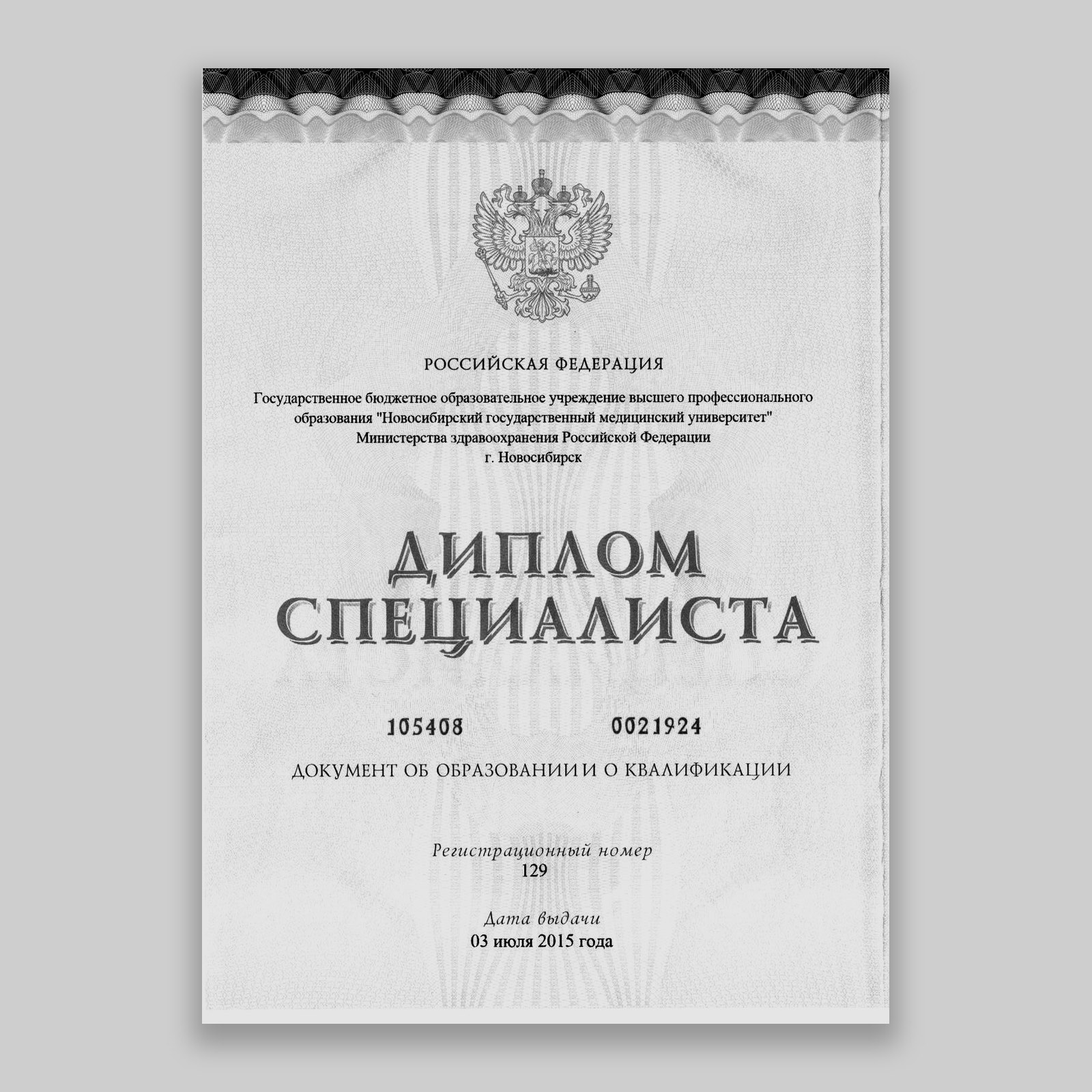
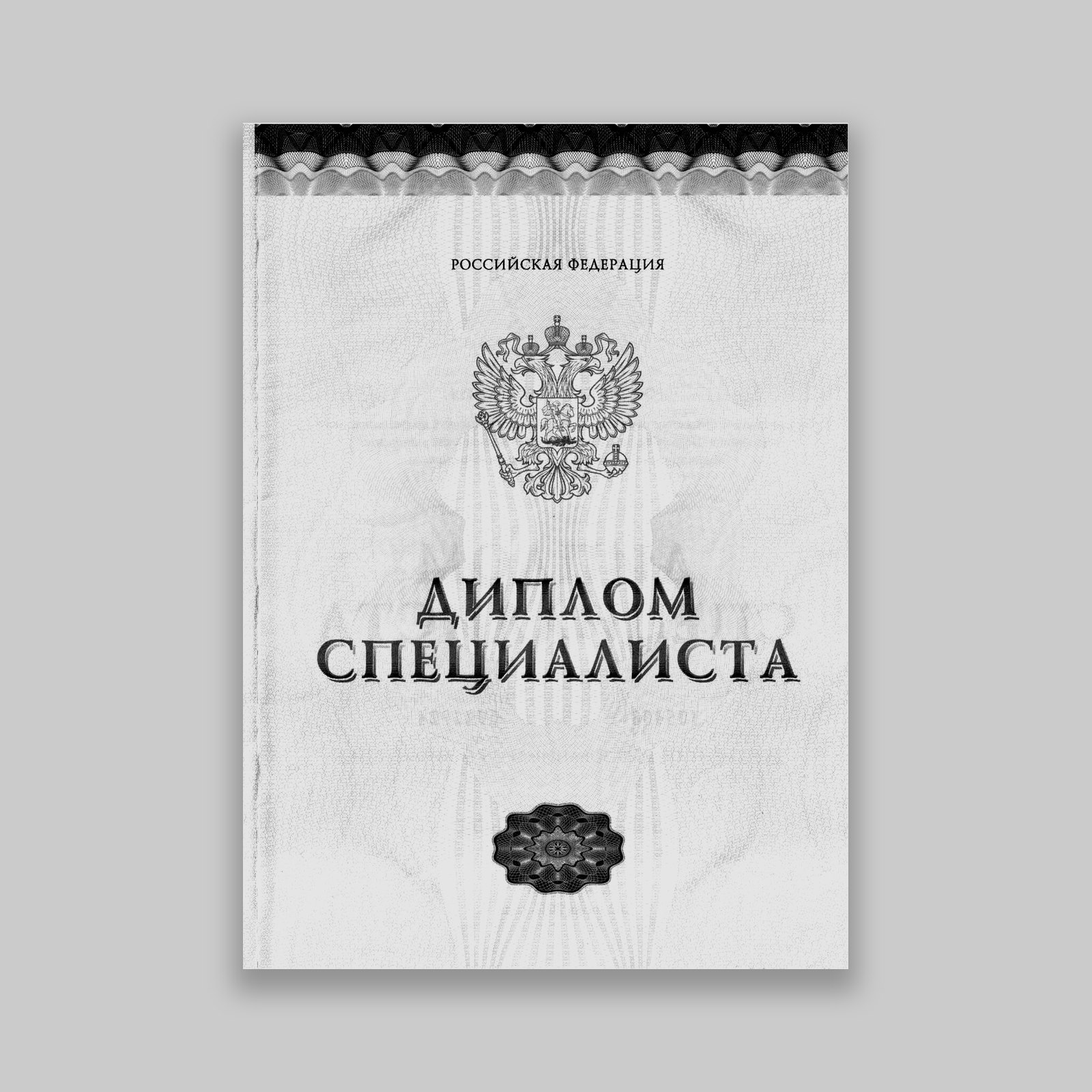
Документы об образовании, карта под текстом, версия без игр
В разделе документов новый блок: шесть документов врача от диплома
2015 года до повышения квалификации 2025-го. Миниатюра раскрывается
в полный скан нажатием, на теге details — без скрипта, поэтому
работает и с клавиатуры. Рядом сказано, что документы 2015 и 2016
годов выданы на прежнюю фамилию.

Карта на контактах встала под адресом и телефоном, а не сбоку:
сведения читаются сверху вниз, карта оказывается в конце.

В версии для слабовидящих убраны игры — камень, пломба и лоток
инструментов. Мелкие цели и перетаскивание там ни к чему; текст и
цены блоков остались на месте.

На плитке о дипломе теперь обложка бланка без имени, номеров и
подписей, подпись под ней без названия вуза.

Claude-Session: https://claude.ai/code/session_01Ui7H6U1Pji7C9dD6chSZKK

Changed region(s): [[0.1562, 0.0625, 0.8438, 0.9688], [0.3125, 0.2188, 0.3438, 0.25]]

diff --git a/faq.html b/faq.html
@@ -23,7 +23,7 @@
 <link rel="manifest" href="site.webmanifest">
 <link rel="preload" href="assets/font/golos-text-cyrillic-400-normal.woff2" as="font" type="font/woff2" crossorigin>
 <link rel="preload" href="assets/font/prata-cyrillic-400-normal.woff2" as="font" type="font/woff2" crossorigin>
-<link rel="stylesheet" href="styles.css?v=b74cc926">
+<link rel="stylesheet" href="styles.css?v=006682e9">
 <script type="application/ld+json">{"@context": "https://schema.org", "@type": "FAQPage", "mainEntity": [{"@type": "Question", "name": "Как проходит первый визит?", "acceptedAnswer": {"@type": "Answer", "text": "Первичный приём длится около часа. Мы разговариваем о том, что беспокоит и чего вы ждёте, осматриваем полость рта, делаем фотопротокол и, если нужно, даём направление на снимок. В конце вы получаете письменный план лечения с этапами и стоимостью. Никаких процедур «заодно» в первый визит не делается — только по вашему решению."}}, {"@type": "Question", "name": "Почему консультация платная?", "acceptedAnswer": {"@type": "Answer", "text": "Потому что это час работы врача, а не десять минут осмотра «на бегу». За это время вы получаете документ — план и смету, — с которым можно пойти и в другую клинику. Если вы начинаете лечение у нас в течение 30 дней, стоимость консультации вычитается из его цены."}}, {"@type": "Question", "name": "Нужно ли брать с собой снимки и выписки?", "acceptedAnswer": {"@type": "Answer", "text": "Да, если они есть: панорамный снимок, КЛКТ, план из другой клиники, список принимаемых лекарств. Это экономит время и деньги — повторять свежие снимки не придётся."}}, {"@type": "Question", "name": "Можно ли прийти с острой болью без записи?", "acceptedAnswer": {"@type": "Answer", "text": "Позвоните — если в расписании есть окно, примем в тот же день. Острая боль всегда в приоритете: сначала снимаем её, потом планируем остальное."}}, {"@type": "Question", "name": "Есть ли рассрочка?", "acceptedAnswer": {"@type": "Answer", "text": "Да, для планового лечения. Условия зависят от объёма плана, поэтому обсуждаем их на приёме, когда план уже составлен."}}, {"@type": "Question", "name": "Можно ли получить налоговый вычет за лечение?", "acceptedAnswer": {"@type": "Answer", "text": "Да. Мы выдаём договор, копию лицензии и справку об оплате медицинских услуг по установленной форме — этого достаточно для вычета 13 %."}}, {"@type": "Question", "name": "Как часто нужна профессиональная чистка?", "acceptedAnswer": {"@type": "Answer", "text": "Большинству взрослых — раз в шесть месяцев. При заболеваниях дёсен, брекетах, имплантатах или курении — раз в три‑четыре месяца. Интервал врач назначает индивидуально после осмотра."}}, {"@type": "Question", "name": "Чем профессиональная чистка отличается от домашней?", "acceptedAnswer": {"@type": "Answer", "text": "Дома щётка убирает мягкий налёт. Зубной камень и налёт под десной и между зубами щётке недоступны — их снимают ультразвуком и порошком Air Flow. Чистка не «стачивает» эмаль: ультразвук работает по камню, а порошок — по налёту."}}, {"@type": "Question", "name": "Что нельзя делать после чистки?", "acceptedAnswer": {"@type": "Answer", "text": "Два‑три часа не есть и не пить ничего, кроме воды. Сутки — без красящих продуктов: кофе, чай, красное вино, свёкла, соевый соус, ягоды. Сутки — без курения. Эмаль после чистки более восприимчива к пигментам."}}, {"@type": "Question", "name": "Безопасно ли отбеливание?", "acceptedAnswer": {"@type": "Answer", "text": "Кабинетное и домашнее отбеливание по назначению врача — безопасная процедура для здоровой эмали. Небезопасно отбеливать зубы с кариесом, оголёнными шейками или на фоне воспаления дёсен — поэтому сначала осмотр и гигиена, потом отбеливание."}}, {"@type": "Question", "name": "Повышается ли чувствительность после отбеливания?", "acceptedAnswer": {"@type": "Answer", "text": "У части пациентов на один‑три дня — да. Это проходит. Снимается реминерализующими гелями и пастами для чувствительных зубов, которые мы даём с собой."}}, {"@type": "Question", "name": "Что такое «белая диета» и сколько её соблюдать?", "acceptedAnswer": {"@type": "Answer", "text": "Первые 48 часов после отбеливания — только светлые продукты и напитки: вода, молочное, курица, рис, белая рыба, светлые фрукты. В это время эмаль наиболее восприимчива к красителям."}}, {"@type": "Question", "name": "Можно ли отбелить зубы домашними средствами — содой, углём, перекисью?", "acceptedAnswer": {"@type": "Answer", "text": "Не советуем. Сода и уголь — абразивы, они царапают эмаль и делают зубы более матовыми и чувствительными. Аптечная перекись без контроля обжигает десну. Домашнее отбеливание существует, но в каппах и с гелем, который подбирает врач."}}, {"@type": "Question", "name": "Нужна ли зубная нить, если есть щётка?", "acceptedAnswer": {"@type": "Answer", "text": "Нужна. Щётка не проходит между зубами, а кариес чаще всего начинается именно там. Нить или ёршики — один раз в день, вечером. Ирригатор — хорошее дополнение, но не замена нити."}}, {"@type": "Question", "name": "Чистить зубы до завтрака или после?", "acceptedAnswer": {"@type": "Answer", "text": "Лучше после — так вы убираете остатки еды. Если завтракали кислым (сок, цитрусы), подождите 20–30 минут: сразу после кислоты эмаль мягче, и щётка её царапает."}}, {"@type": "Question", "name": "Обязательно ли лечить кариес, если зуб не болит?", "acceptedAnswer": {"@type": "Answer", "text": "Да. Боль появляется, когда процесс дошёл до нерва, — тогда вместо пломбы нужно лечение каналов, оно дольше и дороже. Кариес на ранней стадии лечится за один визит и без потери большого объёма зуба."}}, {"@type": "Question", "name": "Больно ли лечить зубы?", "acceptedAnswer": {"@type": "Answer", "text": "Лечение проходит под местной анестезией. Современные анестетики действуют через несколько минут и полностью убирают чувствительность на время процедуры. Если вы боитесь самого укола, скажите — место инъекции предварительно обезболивается гелем."}}, {"@type": "Question", "name": "Зачем при лечении каналов увеличение?", "acceptedAnswer": {"@type": "Answer", "text": "Каналы тонкие и часто ветвятся. Врач работает в бинокулярной оптике: под увеличением видны дополнительные каналы, трещины и остатки старого материала, которые не различить глазом. Это снижает риск повторного воспаления и перелечивания."}}, {"@type": "Question", "name": "Зачем нужен коффердам?", "acceptedAnswer": {"@type": "Answer", "text": "Это латексная завеса, которая изолирует зуб от слюны. Слюна — влага и бактерии; попадая в канал или под пломбу, она сокращает срок службы работы. С коффердамом ещё и комфортнее: в горло ничего не попадает."}}, {"@type": "Question", "name": "Может ли зуб болеть после лечения?", "acceptedAnswer": {"@type": "Answer", "text": "Небольшая чувствительность при накусывании один‑три дня после лечения каналов — нормальная реакция тканей. Если боль нарастает, держится дольше недели или появился отёк — позвоните, мы посмотрим."}}, {"@type": "Question", "name": "Можно ли лечить зубы во время беременности?", "acceptedAnswer": {"@type": "Answer", "text": "Можно и нужно: очаг инфекции во рту хуже для беременности, чем лечение. Оптимальное время — второй триместр. Используются анестетики без адреналина или с минимальной дозой, снимки — только при необходимости и с защитой. Сообщите врачу о сроке."}}, {"@type": "Question", "name": "Можно ли лечить зубы, если я принимаю разжижающие кровь препараты?", "acceptedAnswer": {"@type": "Answer", "text": "Да, но врач должен об этом знать заранее. Для удаления и хирургии может потребоваться согласование с вашим терапевтом или кардиологом. Самостоятельно отменять препараты нельзя."}}, {"@type": "Question", "name": "Обязательно ли удалять зубы мудрости?", "acceptedAnswer": {"@type": "Answer", "text": "Нет. Удаляют те, что растут неправильно, упираются в соседний зуб, регулярно воспаляются или не поддаются лечению. Здоровый, прорезавшийся и доступный для чистки зуб мудрости можно оставить."}}, {"@type": "Question", "name": "Что делать после удаления зуба?", "acceptedAnswer": {"@type": "Answer", "text": "Два часа не есть, сутки не полоскать рот, не греть щёку и не курить, не трогать лунку языком. Есть — на другой стороне, мягкое и не горячее. Небольшой отёк и дискомфорт один‑два дня — норма; нарастающая боль на третий‑четвёртый день — повод позвонить."}}, {"@type": "Question", "name": "Сколько заживает лунка и когда можно ставить имплантат?", "acceptedAnswer": {"@type": "Answer", "text": "Мягкие ткани закрываются за 1–2 недели, кость восстанавливается 3–4 месяца. Имплантат ставят либо сразу в лунку (если позволяют условия), либо через 2–4 месяца. Решение — по снимку."}}, {"@type": "Question", "name": "Сколько служат имплантаты?", "acceptedAnswer": {"@type": "Answer", "text": "При хорошей гигиене и регулярных осмотрах — десятилетиями; производители дают на сам имплантат длительную гарантию. Коронка на имплантате — расходная часть, её меняют примерно раз в 10–15 лет."}}, {"@type": "Question", "name": "Можно ли поставить имплантат, если зуб удалён давно?", "acceptedAnswer": {"@type": "Answer", "text": "Чаще всего да. Со временем кость в этом месте убывает, поэтому может понадобиться костная пластика — это удлиняет лечение на несколько месяцев, но не отменяет его. Точно ответить можно только по КЛКТ."}}, {"@type": "Question", "name": "Есть ли противопоказания к имплантации?", "acceptedAnswer": {"@type": "Answer", "text": "Есть — например, некомпенсированный диабет, некоторые заболевания крови и костей, курение в больших объёмах повышает риск. Большинство ограничений относительные: вопрос решается вместе с лечащим врачом по другим заболеваниям."}}, {"@type": "Question", "name": "Сколько служат коронки?", "acceptedAnswer": {"@type": "Answer", "text": "Цирконий и E‑max — в среднем 10–15 лет и дольше при хорошей гигиене. Главный враг коронки — кариес на границе с зубом, поэтому важны ёршики и осмотры раз в полгода."}}, {"@type": "Question", "name": "Нужно ли удалять нерв перед коронкой?", "acceptedAnswer": {"@type": "Answer", "text": "Не всегда. Живой зуб под коронкой служит дольше. Нерв удаляют, если он уже воспалён или зуб настолько разрушен, что без этого не обойтись. Решение — по состоянию конкретного зуба."}}, {"@type": "Question", "name": "Что делать, если слетела коронка?", "acceptedAnswer": {"@type": "Answer", "text": "Не выбрасывайте её и не пытайтесь приклеить сами. Позвоните — обычно коронку можно зафиксировать обратно, если зуб под ней цел."}}, {"@type": "Question", "name": "Чем виниры отличаются от коронок?", "acceptedAnswer": {"@type": "Answer", "text": "Винир закрывает только переднюю поверхность зуба и требует минимальной обработки — 0,3–0,7 мм. Коронка закрывает зуб целиком. Виниры — про внешний вид передних зубов, коронки — про восстановление разрушенных."}}, {"@type": "Question", "name": "Портят ли виниры зубы?", "acceptedAnswer": {"@type": "Answer", "text": "Под винир зуб обрабатывают на доли миллиметра, и обратно эта эмаль не вернётся — в этом смысле решение необратимо. Поэтому сначала делается цифровой макет и примерка: вы видите результат до обработки. При правильном уходе зуб под виниром служит так же, как без него."}}, {"@type": "Question", "name": "С какого возраста показывать ребёнка стоматологу?", "acceptedAnswer": {"@type": "Answer", "text": "Первый визит — около года, когда прорезались первые зубы, дальше — раз в полгода. Молочные зубы лечат: кариес на них влияет на зачатки постоянных."}}]}</script>
 </head>
 <body>

diff --git a/index.html b/index.html
@@ -23,7 +23,7 @@
 <link rel="manifest" href="site.webmanifest">
 <link rel="preload" href="assets/font/golos-text-cyrillic-400-normal.woff2" as="font" type="font/woff2" crossorigin>
 <link rel="preload" href="assets/font/prata-cyrillic-400-normal.woff2" as="font" type="font/woff2" crossorigin>
-<link rel="stylesheet" href="styles.css?v=b74cc926">
+<link rel="stylesheet" href="styles.css?v=006682e9">
 <script type="application/ld+json">{"@context": "https://schema.org", "@type": ["Dentist", "MedicalClinic"], "name": "Стоматологическая клиника «Академия улыбки»", "legalName": "ООО «Академия улыбки»", "telephone": "+79897512851", "url": "https://akademiya-ulybki.ru/", "address": {"@type": "PostalAddress", "streetAddress": "ул. Виноградная, д. 55/1, пом. 22, 2-й этаж", "addressLocality": "Сочи", "addressRegion": "Краснодарский край", "postalCode": "354008", "addressCountry": "RU"}, "geo": {"@type": "GeoCoordinates", "latitude": 43.608995, "longitude": 39.720852}, "hasMap": "https://yandex.ru/maps/org/akademiya_ulybki/196221666219/", "foundingDate": "2026", "employee": {"@type": "Physician", "name": "Белоусова Александра Сергеевна", "jobTitle": "Врач стоматолог-терапевт, хирург, имплантолог", "alumniOf": "Новосибирский государственный медицинский университет"}, "hasCredential": {"@type": "EducationalOccupationalCredential", "credentialCategory": "license", "name": "Лицензия Л041-01126-23/05841444", "dateCreated": "2026-08-03", "recognizedBy": {"@type": "GovernmentOrganization", "name": "Министерство здравоохранения Краснодарского края"}}, "identifier": [{"@type": "PropertyValue", "propertyID": "ИНН", "value": "2366057010"}, {"@type": "PropertyValue", "propertyID": "ОГРН", "value": "1262300000038"}]}</script>
 <script type="application/ld+json">{"@context": "https://schema.org", "@type": "FAQPage", "mainEntity": [{"@type": "Question", "name": "Как проходит первый визит?", "acceptedAnswer": {"@type": "Answer", "text": "Первичный приём длится около часа. Мы разговариваем о том, что беспокоит и чего вы ждёте, осматриваем полость рта, делаем фотопротокол и, если нужно, даём направление на снимок. В конце вы получаете письменный план лечения с этапами и стоимостью. Никаких процедур «заодно» в первый визит не делается — только по вашему решению."}}, {"@type": "Question", "name": "Как часто нужна профессиональная чистка?", "acceptedAnswer": {"@type": "Answer", "text": "Большинству взрослых — раз в шесть месяцев. При заболеваниях дёсен, брекетах, имплантатах или курении — раз в три‑четыре месяца. Интервал врач назначает индивидуально после осмотра."}}, {"@type": "Question", "name": "Что нельзя делать после чистки?", "acceptedAnswer": {"@type": "Answer", "text": "Два‑три часа не есть и не пить ничего, кроме воды. Сутки — без красящих продуктов: кофе, чай, красное вино, свёкла, соевый соус, ягоды. Сутки — без курения. Эмаль после чистки более восприимчива к пигментам."}}, {"@type": "Question", "name": "Больно ли лечить зубы?", "acceptedAnswer": {"@type": "Answer", "text": "Лечение проходит под местной анестезией. Современные анестетики действуют через несколько минут и полностью убирают чувствительность на время процедуры. Если вы боитесь самого укола, скажите — место инъекции предварительно обезболивается гелем."}}, {"@type": "Question", "name": "Обязательно ли удалять зубы мудрости?", "acceptedAnswer": {"@type": "Answer", "text": "Нет. Удаляют те, что растут неправильно, упираются в соседний зуб, регулярно воспаляются или не поддаются лечению. Здоровый, прорезавшийся и доступный для чистки зуб мудрости можно оставить."}}]}</script>
 <script type="application/ld+json">{"@context": "https://schema.org", "@type": "WebSite", "name": "Академия улыбки", "url": "https://akademiya-ulybki.ru/", "inLanguage": "ru-RU", "publisher": {"@type": "Organization", "name": "ООО «Академия улыбки»"}}</script>
@@ -168,7 +168,7 @@
       <figure class="rv"><img class="bw" src="assets/editorial/chair.jpg" alt="Рабочее место врача" width="1600" height="1600" loading="lazy"><figcaption><b>Одно рабочее место</b><span>Один пациент в час. Максимальная приватность и фокус на результате</span></figcaption></figure>
       <figure class="rv"><img class="bw" src="assets/editorial/scanner.jpg" alt="Внутриротовой сканер" width="1600" height="1600" loading="lazy"><figcaption><b>Внутриротовой сканер</b><span>Цифровые слепки без слепочной массы. Комфорт, точность, современные технологии</span></figcaption></figure>
       <figure class="rv"><img class="bw" src="assets/editorial/tray.jpg" alt="Стерильные инструменты" width="1600" height="1600" loading="lazy"><figcaption><b>Стерилизация</b><span>Автоклав и индивидуальная упаковка каждого набора. Бескомпромиссное внимание к чистоте и безопасности пациентов</span></figcaption></figure>
-      <figure class="rv"><img class="bw" src="assets/editorial/diploma.jpg" alt="Диплом специалиста по стоматологии, Новосибирский государственный медицинский университет" width="1600" height="1600" loading="lazy"><figcaption><b>Диплом государственного образца</b><span>Врач‑стоматолог, Новосибирский государственный медицинский университет, 2015 год. Квалификация подтверждена государством, в стоматологии — одиннадцатый год.</span></figcaption></figure>
+      <figure class="rv"><img class="bw" src="assets/editorial/diploma.jpg" alt="Диплом специалиста" width="1600" height="1600" loading="lazy"><figcaption><b>Диплом государственного образца</b><span>Квалификация врача‑стоматолога подтверждена государством. В стоматологии — одиннадцатый год.</span></figcaption></figure>
     </div>
   </div>
 </section>

diff --git a/docs.html b/docs.html
@@ -23,7 +23,7 @@
 <link rel="manifest" href="site.webmanifest">
 <link rel="preload" href="assets/font/golos-text-cyrillic-400-normal.woff2" as="font" type="font/woff2" crossorigin>
 <link rel="preload" href="assets/font/prata-cyrillic-400-normal.woff2" as="font" type="font/woff2" crossorigin>
-<link rel="stylesheet" href="styles.css?v=b74cc926">
+<link rel="stylesheet" href="styles.css?v=006682e9">
 
 </head>
 <body>
@@ -68,7 +68,7 @@
     <h1>Документы</h1>
     <p class="lead">Всё, что клиника обязана показать пациенту по приказу Минздрава России № 118н и правилам оказания платных медицинских услуг. Разделы идут в том же порядке, что и в приказе.</p>
     <nav class="pnav pnav--inline" aria-label="Разделы">
-      <a href="#o-klinike">О клинике</a><a href="#uslugi">Платные услуги</a><a href="#prava-pacienta">Права пациента</a><a href="#personalnye-dannye">Персональные данные</a><a href="#obrashcheniya-doc">Обращения и контроль</a>
+      <a href="#o-klinike">О клинике</a><a href="#obrazovanie">Образование врача</a><a href="#uslugi">Платные услуги</a><a href="#prava-pacienta">Права пациента</a><a href="#personalnye-dannye">Персональные данные</a><a href="#obrashcheniya-doc">Обращения и контроль</a>
     </nav>
   </div>
   <div class="wrap docs">
@@ -81,6 +81,18 @@
       <li><span class="docs__t docs__t--off">Выписка из реестра лицензий с двумерным кодом</span><span class="docs__s docs__s--soon">готовится</span><p>Бумажные лицензии с 2022 года не выдают: действительность проверяется по выписке из государственного реестра.</p></li>
       <li><span class="docs__t docs__t--off">Выписка из ЕГРЮЛ</span><span class="docs__s docs__s--ask">по запросу</span><p>Предоставляется для ознакомления по требованию — по телефону или в клинике.</p></li>
     </ul>
+
+    <h2 id="obrazovanie">Документы об образовании врача</h2>
+    <p class="edu__note">Нажмите на документ, чтобы рассмотреть его целиком. Документы 2015 и 2016 годов выданы на фамилию Бондарева — врач сменила фамилию после замужества.</p>
+    <div class="edu">
+      <details class="edu__i"><summary><img class="edu__th" src="assets/edu/diplom-2015.jpg" alt="" width="1500" height="1091" loading="lazy"><span class="edu__tx"><b>Диплом специалиста</b><span>Новосибирский государственный медицинский университет Минздрава России · 2015</span></span><i aria-hidden="true"></i></summary><div class="edu__a"><img src="assets/edu/diplom-2015.jpg" alt="Диплом специалиста, 2015" width="1500" height="1091" loading="lazy"><p>Специальность «Стоматология», квалификация «врач‑стоматолог». Очная форма обучения, пять лет.</p></div></details>
+      <details class="edu__i"><summary><img class="edu__th" src="assets/edu/internatura-2016.jpg" alt="" width="1500" height="1091" loading="lazy"><span class="edu__tx"><b>Диплом об окончании интернатуры</b><span>Новосибирский государственный медицинский университет Минздрава России · 2016</span></span><i aria-hidden="true"></i></summary><div class="edu__a"><img src="assets/edu/internatura-2016.jpg" alt="Диплом об окончании интернатуры, 2016" width="1500" height="1091" loading="lazy"><p>Послевузовское профессиональное образование по специальности «Стоматология».</p></div></details>
+      <details class="edu__i"><summary><img class="edu__th" src="assets/edu/sertifikat-2016.jpg" alt="" width="1500" height="1091" loading="lazy"><span class="edu__tx"><b>Сертификат специалиста по стоматологии</b><span>Новосибирский государственный медицинский университет Минздрава России · 2016</span></span><i aria-hidden="true"></i></summary><div class="edu__a"><img src="assets/edu/sertifikat-2016.jpg" alt="Сертификат специалиста по стоматологии, 2016" width="1500" height="1091" loading="lazy"><p>Допуск к осуществлению медицинской деятельности по специальности «Стоматология». С 2021 года допуск подтверждается свидетельством об аккредитации.</p></div></details>
+      <details class="edu__i"><summary><img class="edu__th" src="assets/edu/perepodgotovka-2019.jpg" alt="" width="1500" height="1091" loading="lazy"><span class="edu__tx"><b>Диплом о профессиональной переподготовке</b><span>ООО «ДКА‑МЕД», Москва · 2019</span></span><i aria-hidden="true"></i></summary><div class="edu__a"><img src="assets/edu/perepodgotovka-2019.jpg" alt="Диплом о профессиональной переподготовке, 2019" width="1500" height="1091" loading="lazy"><p>Программа «Организация здравоохранения и общественное здоровье», 576 часов.</p></div></details>
+      <details class="edu__i"><summary><img class="edu__th" src="assets/edu/sertifikat-2019.jpg" alt="" width="1500" height="1091" loading="lazy"><span class="edu__tx"><b>Сертификат специалиста по организации здравоохранения</b><span>ООО «ДКА‑МЕД», Москва · 2019</span></span><i aria-hidden="true"></i></summary><div class="edu__a"><img src="assets/edu/sertifikat-2019.jpg" alt="Сертификат специалиста по организации здравоохранения, 2019" width="1500" height="1091" loading="lazy"><p>Специальность «Организация здравоохранения и общественное здоровье».</p></div></details>
+      <details class="edu__i"><summary><img class="edu__th" src="assets/edu/pk-2025.jpg" alt="" width="1500" height="1091" loading="lazy"><span class="edu__tx"><b>Удостоверение о повышении квалификации</b><span>Ставропольский институт непрерывного образования «Центр‑С» · 2025</span></span><i aria-hidden="true"></i></summary><div class="edu__a"><img src="assets/edu/pk-2025.jpg" alt="Удостоверение о повышении квалификации, 2025" width="1500" height="1091" loading="lazy"><p>Программа «Организация здравоохранения и общественное здоровье», 144 часа.</p></div></details>
+      
+    </div>
 
     <h2 id="uslugi">Платные услуги</h2>
     <ul class="docs__l">

diff --git a/styles.css b/styles.css
@@ -464,8 +464,11 @@ body.nav-open .burger span::before{top:0;transform:rotate(45deg)}body.nav-open .
 @media(max-width:900px){.faqt__in{grid-template-columns:1fr}}
 
 /* КОНТАКТЫ */
-.contact__in{display:grid;grid-template-columns:5fr 7fr;gap:clamp(28px,5vw,80px);align-items:start}
-.map{position:relative;aspect-ratio:4/3;background:var(--tint);border:1px solid var(--hair-2);overflow:hidden}
+/* Карта идёт под текстом, а не рядом: адрес, телефон и часы читают
+   сверху вниз, и карта оказывается там, где она нужна — в конце. */
+.contact__in{display:block}
+.contact__in > .rv:not(.map){max-width:70ch}   /* ограничиваем строку текста, но не карту */
+.map{position:relative;margin-top:clamp(28px,4vw,48px);aspect-ratio:16/9;background:var(--tint);border:1px solid var(--hair-2);overflow:hidden}
 .map__frame{position:absolute;inset:0;width:100%;height:100%;border:0;filter:grayscale(.15)}
 .map__ph{position:absolute;inset:0;width:100%;height:100%;object-fit:cover}
 .map.is-fallback + .contact__photo,.contact__in .rv:has(+ .map.is-fallback) .contact__photo{display:none}
@@ -566,6 +569,10 @@ html.vi .nav a,html.vi .ftr__nav a,html.vi .vip__b,html.vi .vip__off,html.vi .bt
 html.vi .btn,html.vi .nav a,html.vi .ftr__nav a{min-height:44px;display:inline-flex;align-items:center}
 html.vi .btn--fill{background:var(--ink);color:var(--bg);border-color:var(--ink)}
 html.vi .intro{display:none!important}
+/* Игры — это мелкие цели, перетаскивание и реакция на движение мыши.
+   В режиме для слабовидящих они не помогают, а мешают: убираем целиком. */
+html.vi #plomba,html.vi #sterilno,html.vi #stone,html.vi .offer__crumbs,
+html.vi #drill-hint,html.vi .shots__ui{display:none!important}
 html.vi *,html.vi *::before,html.vi *::after{animation:none!important;transition:none!important}
 html.vi .shots__dots button{width:24px;height:24px;border:2px solid var(--ink);background:var(--bg)}
 html.vi .shots__dots button[aria-current="true"],html.vi .shots__dots button.is-cur{background:var(--ink)}
@@ -594,6 +601,32 @@ html.vi-noimg .vi-btn svg,html.vi-noimg .hdr__tel-i{display:inline!important}
 .docs__l p{grid-column:1/-1;margin:0;font-size:var(--fs-2);color:var(--ink-2);max-width:56ch}
 .docs__s{justify-self:end;font-size:var(--fs-1);letter-spacing:.06em;text-transform:uppercase;
   color:var(--mute);background:var(--tint);border:1px solid var(--hair-2);border-radius:2px;padding:4px 8px;white-space:nowrap}
+/* Документы врача. Раскрытие на теге details: миниатюра в строке,
+   по нажатию под ней разворачивается полный скан. Без скрипта — значит
+   работает и с клавиатуры, и при отключённом JavaScript. */
+.edu__note{margin:14px 0 20px;font-size:var(--fs-2);color:var(--mute);max-width:68ch}
+.edu{border-top:1px solid var(--hair)}
+.edu__i{border-bottom:1px solid var(--hair)}
+.edu__i summary{display:grid;grid-template-columns:88px minmax(0,1fr) 20px;gap:18px;align-items:center;
+  padding:14px 0;cursor:pointer;list-style:none}
+.edu__i summary::-webkit-details-marker{display:none}
+.edu__i summary:hover .edu__tx b{color:var(--navy)}
+.edu__i summary:focus-visible{outline:2px solid var(--navy);outline-offset:3px}
+.edu__th{width:88px;height:64px;object-fit:cover;object-position:center 30%;border:1px solid var(--hair-2);background:var(--tint)}
+.edu__tx b{display:block;font-weight:500;font-size:var(--fs-3);line-height:1.3}
+.edu__tx span{display:block;margin-top:3px;font-size:var(--fs-2);color:var(--mute);line-height:1.4}
+.edu__i i{position:relative;width:14px;height:14px;justify-self:end}
+.edu__i i::before,.edu__i i::after{content:"";position:absolute;background:var(--ink-2);transition:transform var(--t-fast) var(--ease)}
+.edu__i i::before{left:0;top:6px;width:14px;height:1.5px}
+.edu__i i::after{left:6px;top:0;width:1.5px;height:14px}
+.edu__i[open] i::after{transform:scaleY(0)}
+.edu__a{padding:0 0 22px}
+.edu__a img{display:block;width:100%;max-width:820px;height:auto;border:1px solid var(--hair-2)}
+.edu__a p{margin:12px 0 0;font-size:var(--fs-2);color:var(--ink-2);max-width:60ch}
+@media(max-width:560px){
+  .edu__i summary{grid-template-columns:64px minmax(0,1fr) 16px;gap:12px}
+  .edu__th{width:64px;height:48px}
+}
 .docs__note{margin:40px 0 0;padding:18px 20px;background:var(--tint);border-left:2px solid var(--hair);font-size:var(--fs-2);color:var(--ink-2)}
 /* Путь назад в раздел. Документ открывается из «Документов», и без этой
    строки вернуться можно только на главную или кнопкой браузера. */

diff --git a/info.html b/info.html
@@ -23,7 +23,7 @@
 <link rel="manifest" href="site.webmanifest">
 <link rel="preload" href="assets/font/golos-text-cyrillic-400-normal.woff2" as="font" type="font/woff2" crossorigin>
 <link rel="preload" href="assets/font/prata-cyrillic-400-normal.woff2" as="font" type="font/woff2" crossorigin>
-<link rel="stylesheet" href="styles.css?v=b74cc926">
+<link rel="stylesheet" href="styles.css?v=006682e9">
 
 </head>
 <body>

diff --git a/prices.html b/prices.html
@@ -23,7 +23,7 @@
 <link rel="manifest" href="site.webmanifest">
 <link rel="preload" href="assets/font/golos-text-cyrillic-400-normal.woff2" as="font" type="font/woff2" crossorigin>
 <link rel="preload" href="assets/font/prata-cyrillic-400-normal.woff2" as="font" type="font/woff2" crossorigin>
-<link rel="stylesheet" href="styles.css?v=b74cc926">
+<link rel="stylesheet" href="styles.css?v=006682e9">
 
 </head>
 <body>

diff --git a/privacy.html b/privacy.html
@@ -23,7 +23,7 @@
 <link rel="manifest" href="site.webmanifest">
 <link rel="preload" href="assets/font/golos-text-cyrillic-400-normal.woff2" as="font" type="font/woff2" crossorigin>
 <link rel="preload" href="assets/font/prata-cyrillic-400-normal.woff2" as="font" type="font/woff2" crossorigin>
-<link rel="stylesheet" href="styles.css?v=b74cc926">
+<link rel="stylesheet" href="styles.css?v=006682e9">
 
 </head>
 <body>
